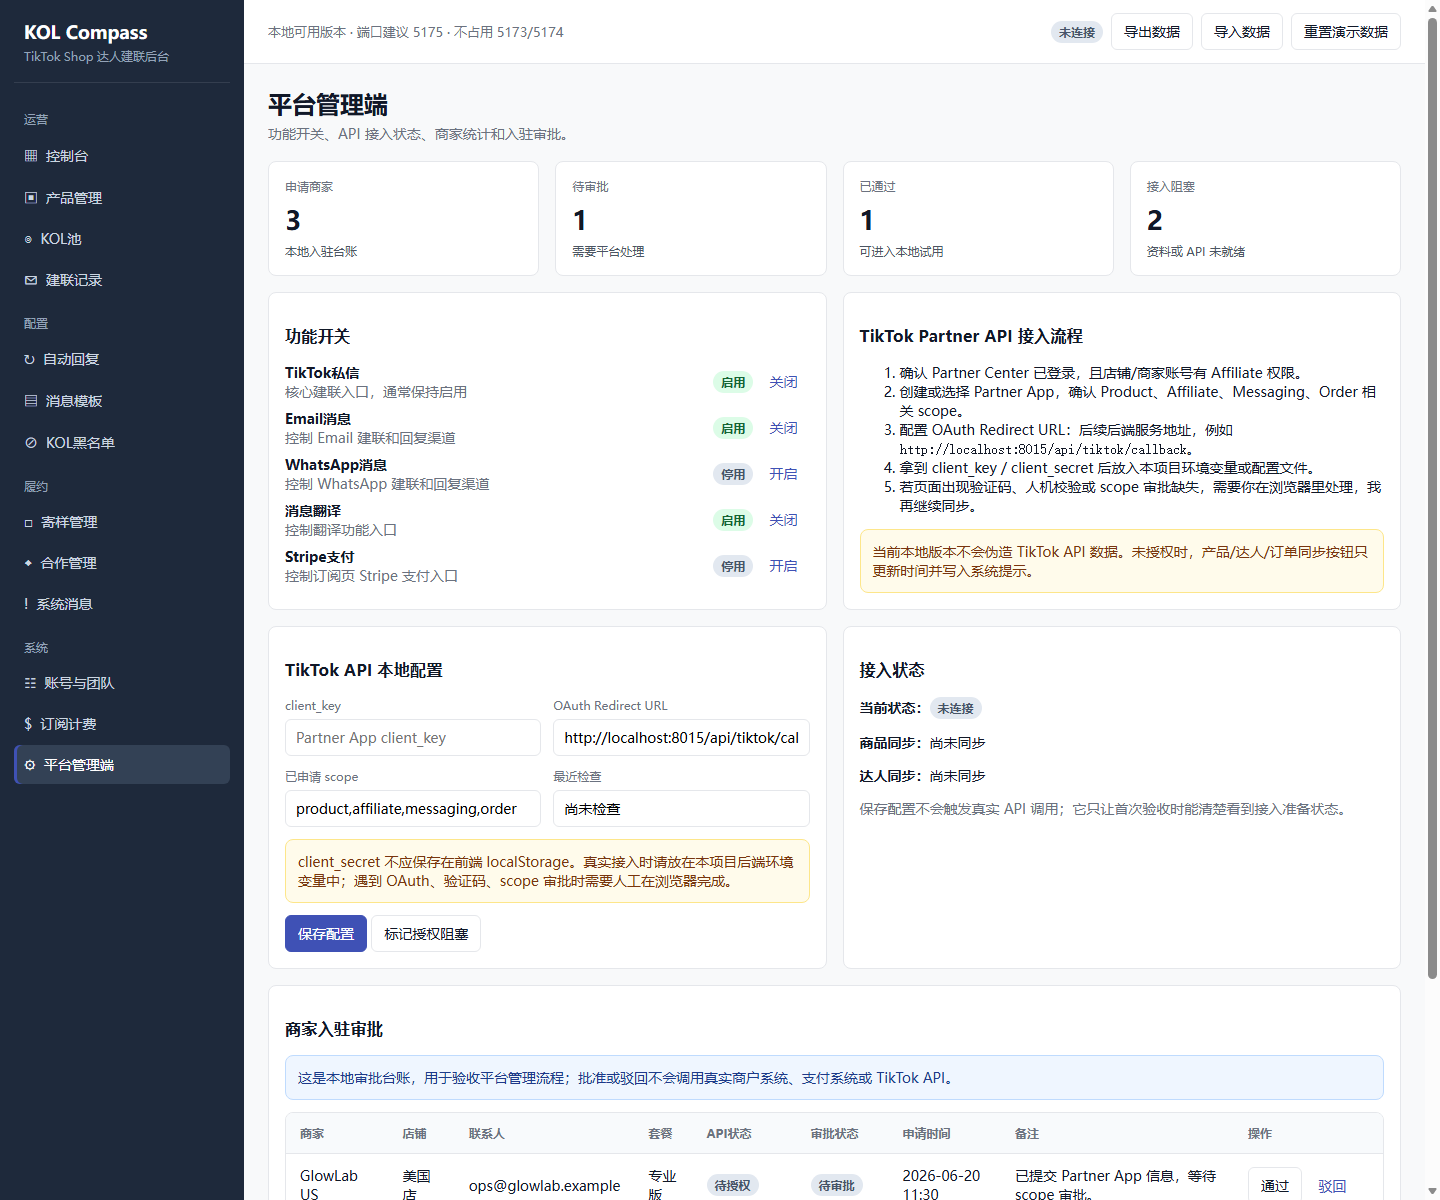
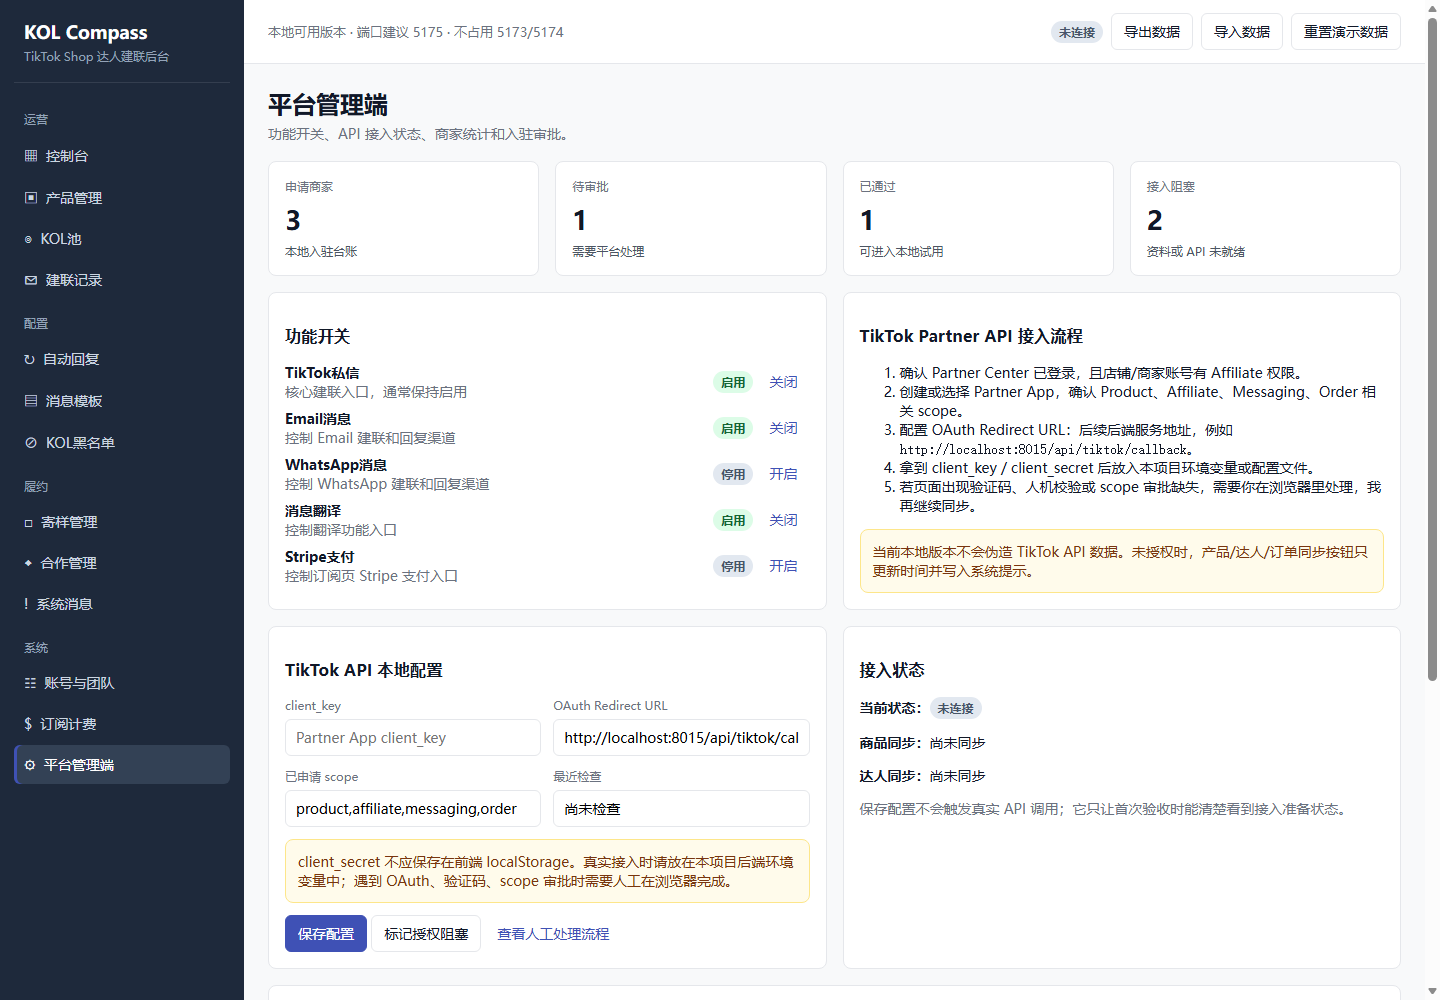
Add TikTok API blocker handoff steps

diff --git a/app.js b/app.js
@@ -1154,6 +1154,7 @@ function renderAdmin() {
         <div style="margin-top:12px">
           <button class="btn primary" onclick="saveApiSettings()">保存配置</button>
           <button class="btn" onclick="markApiAuthBlocked()">标记授权阻塞</button>
+          <button class="btn ghost" onclick="showApiHandoffSteps('API接入')">查看人工处理流程</button>
         </div>
       </div>
       <div class="card">
@@ -1379,6 +1380,7 @@ function syncProducts() {
   pushMessage("商品同步", `已触发商品同步。${reason}`);
   saveState();
   render();
+  showApiHandoffSteps("商品同步", reason);
 }
 
 function syncCreators() {
@@ -1388,6 +1390,7 @@ function syncCreators() {
   pushMessage("达人同步", `已触发达人同步。${reason}`);
   saveState();
   render();
+  showApiHandoffSteps("达人同步", reason);
 }
 
 function syncCoopData() {
@@ -1397,6 +1400,7 @@ function syncCoopData() {
   pushMessage("内容/订单同步", `已触发内容与联盟订单同步。${reason}`);
   saveState();
   render();
+  showApiHandoffSteps("内容/订单同步", reason);
 }
 
 function simulateConnect() {
@@ -1431,6 +1435,18 @@ function markApiAuthBlocked() {
   pushMessage("API授权阻塞", "TikTok API 接入需要人工处理 OAuth、验证码、scope 审批或 redirect URL 配置。");
   saveState();
   render();
+  showApiHandoffSteps("API授权阻塞", "需要人工处理 OAuth、验证码、scope 审批或 redirect URL 配置。");
+}
+
+function showApiHandoffSteps(module = "TikTok API", reason = "") {
+  const steps = [
+    "1. 确认 TikTok Shop Partner Center 已登录，且当前店铺有 Affiliate 权限。",
+    "2. 在 Partner App 中确认 Product、Affiliate、Messaging、Order scope 已开通或审批通过。",
+    "3. 配置 OAuth Redirect URL，后续后端建议使用 http://127.0.0.1:8015/api/tiktok/callback。",
+    "4. 将 client_key 填到平台管理端；client_secret 只放后端环境变量，不写入前端。",
+    "5. 若出现 OAuth 确认、验证码、人机校验、风控弹窗或 scope 缺失，请在浏览器完成后再回来同步。",
+  ];
+  alert(`${module} 暂不能自动完成。\n\n${reason ? `原因：${reason}\n\n` : ""}你现在需要：\n${steps.join("\n")}\n\n详细交接见 docs/TIKTOK_API_HANDOFF.md。`);
 }
 
 function merchantApplicationActions(row) {
@@ -2705,6 +2721,7 @@ window.deleteMessage = deleteMessage;
 window.simulateConnect = simulateConnect;
 window.saveApiSettings = saveApiSettings;
 window.markApiAuthBlocked = markApiAuthBlocked;
+window.showApiHandoffSteps = showApiHandoffSteps;
 window.approveMerchantApplication = approveMerchantApplication;
 window.rejectMerchantApplication = rejectMerchantApplication;
 window.resetMerchantApplication = resetMerchantApplication;

diff --git a/smoke-test.js b/smoke-test.js
@@ -90,6 +90,7 @@ async function main() {
   assert("hash routes supported", app.includes("routeFromHash") && app.includes("kol/creator/"));
   assert("TikTok API handoff exists", fs.existsSync("docs/TIKTOK_API_HANDOFF.md"));
   assert("TikTok API settings can be saved locally", ["tiktokClientKey", "tiktokRedirectUrl", "tiktokScopes", "saveApiSettings", "markApiAuthBlocked"].every((name) => app.includes(name)) && app.includes("client_secret 不应保存在前端"));
+  assert("TikTok API blockers show user handoff steps", ["showApiHandoffSteps", "查看人工处理流程", "Partner Center 已登录", "scope 已开通或审批通过", "client_secret 只放后端环境变量"].every((text) => app.includes(text)));
   assert("sync logs are visible and recorded", ["syncLogs", "addSyncLog"].every((name) => app.includes(name)) && app.includes("同步日志"));
   assert("system message center supports read state and filters", ["messageType", "messageRead", "markMessageRead", "markAllMessagesRead", "deleteMessage", "pruneSystemMessages"].every((name) => app.includes(name)) && app.includes("本地保留最近 90 天"));
   assert("platform feature switches govern channels", ["featureSwitches", "toggleFeatureSwitch", "channelOptionsForCreators", "validateChannelForCreators"].every((name) => app.includes(name)) && app.includes("Stripe 支付已由平台管理端关闭"));

diff --git a/docs/PROJECT_MEMORY.md b/docs/PROJECT_MEMORY.md
@@ -1,6 +1,6 @@
 # KOL Compass 项目记忆
 
-更新时间：2026-06-22 11:45 CST
+更新时间：2026-06-22 12:05 CST
 
 ## 当前工作目录
 
@@ -47,7 +47,7 @@ node smoke-test.js
 - KOL 黑名单截图 `smoke-blacklist.png` 已生成并目视检查通过，统计、搜索、拉黑原因、拉黑时间和移出入口可见。
 - 订阅计费截图 `smoke-billing.png` 已重新生成并目视检查通过，套餐切换、配额、账单与支付记录台账可见。
 - 自动回复截图 `smoke-auto-reply.png` 已生成并目视检查通过，规则配置和本地测试入口可见。
-- 平台管理端截图 `smoke-admin.png` 已重新生成并目视检查通过，功能开关、商家统计、入驻审批台账、API 配置可见。
+- 平台管理端截图 `smoke-admin.png` 已重新生成并目视检查通过，功能开关、商家统计、入驻审批台账、API 配置和人工处理流程入口可见。
 - 订阅计费截图 `smoke-billing.png` 已生成并目视检查通过，Stripe 关闭状态可见。
 - 系统消息截图 `smoke-messages.png` 已生成并目视检查通过。
 - 产品管理截图 `smoke-products.png` 已重新生成并目视检查通过，详情、相关合作、相关建联入口可见。
@@ -75,6 +75,7 @@ node smoke-test.js
 - 建联记录已支持建联总数、待达人回复、待我方回复、已转合作状态总览；状态卡片可直接筛选列表，并展示当前显示条数。
 - 合作管理已支持按达人/产品/负责人/备注搜索，并支持全部/已产出/未产出筛选；筛选后的当前视图会汇总 GMV、订单、佣金+投流和 ROI，便于复投或终止判断。
 - 平台管理端已支持保存 TikTok API 本地配置：client_key、OAuth Redirect URL、scope、最近检查时间；client_secret 明确不保存到前端。
+- TikTok API 未授权或授权阻塞时，商品、达人、内容/订单同步按钮会直接弹出 Partner Center / OAuth / scope / redirect URL / client_secret 的人工处理流程，并写入同步日志。
 - 平台管理端功能开关已从静态展示变成真实状态：TikTok 私信、Email、WhatsApp、消息翻译、Stripe 支付可切换。
 - 平台管理端已支持本地商家统计和入驻审批台账：申请商家、待审批、已通过、接入阻塞统计可见；入驻申请可通过、驳回、恢复待审；动作写入系统消息和操作日志，不调用真实商户系统、支付系统或 TikTok API。
 - 建联和回复渠道会读取功能开关；关闭 Email/WhatsApp 后，新建联和回复不会再显示对应渠道，保存时也会二次校验。

diff --git a/docs/ACCEPTANCE_REPORT.md b/docs/ACCEPTANCE_REPORT.md
@@ -199,6 +199,7 @@ KOL池用于筛选达人并发起建联，不展示合作产出指标。
 - 功能开关
 - TikTok API 本地配置
 - 接入状态
+- 查看人工处理流程
 - 商家统计
 - 入驻审批台账
 - 通过入驻
@@ -207,6 +208,7 @@ KOL池用于筛选达人并发起建联，不展示合作产出指标。
 - 审批动作写入系统消息和操作日志
 
 入驻审批只更新本地状态，不调用真实商户系统、支付系统或 TikTok API。
+未授权时，商品、达人、内容/订单同步按钮会弹出用户可执行的 Partner Center / OAuth / scope / redirect URL / client_secret 处理步骤，并写入同步日志，不伪造同步成功。
 
 验收截图：
 
@@ -319,6 +321,7 @@ node smoke-test.js
 - 支持 hash 直达路由
 - TikTok API 交接文档存在
 - TikTok API 本地配置字段可保存，且明确不在前端保存 client_secret
+- TikTok API 授权阻塞时会在产品内展示用户可执行处理流程
 - 同步日志可见，外部 API 未授权时显示原因，不伪造同步成功
 - 平台管理端支持商家统计、入驻审批台账、通过/驳回/恢复待审，并明确不调用真实外部系统
 - KOL详情排除产出/经营指标

diff --git a/docs/CLAUDE_CONTINUE.md b/docs/CLAUDE_CONTINUE.md
@@ -31,7 +31,7 @@
 - `stop-5175.bat`
 - `smoke-test.js`
 
-最近一次连续推进检查：2026-06-22 11:45 CST，当前分支已连接 GitHub 远端，已新增 KOL CSV 与合作 CSV 模板下载入口，降低首次验收导入真实数据的门槛；`node --check app.js` 与 `node smoke-test.js` 已通过，下一步完成最终 diff 检查后小步提交推送。
+最近一次连续推进检查：2026-06-22 12:05 CST，当前分支已连接 GitHub 远端，已增强 TikTok API 授权阻塞体验：平台管理端可查看人工处理流程，商品/达人/内容订单同步未授权时会弹出 Partner Center、OAuth、scope、redirect URL、client_secret 处理步骤并写入同步日志；`node --check app.js` 与 `node smoke-test.js` 已通过，截图 `smoke-admin.png` 已重新生成并目视复核，下一步小步提交推送。
 
 启动：
 

diff --git a/README.md b/README.md
@@ -96,6 +96,7 @@ KOL CSV 支持表头：
 当前版本不会伪造 TikTok Partner API 数据。真实接入需要：
 
 平台管理端可保存本地接入准备信息：client_key、OAuth Redirect URL、scope、最近检查时间；client_secret 不保存在前端。
+产品、达人、内容/订单同步按钮在未授权时会直接弹出人工处理流程，并写入同步日志，不会伪造成功。
 
 1. Partner Center 已登录并有店铺 Affiliate 权限。
 2. Partner App 已开通 Product、Affiliate、Messaging、Order 相关 scope。
